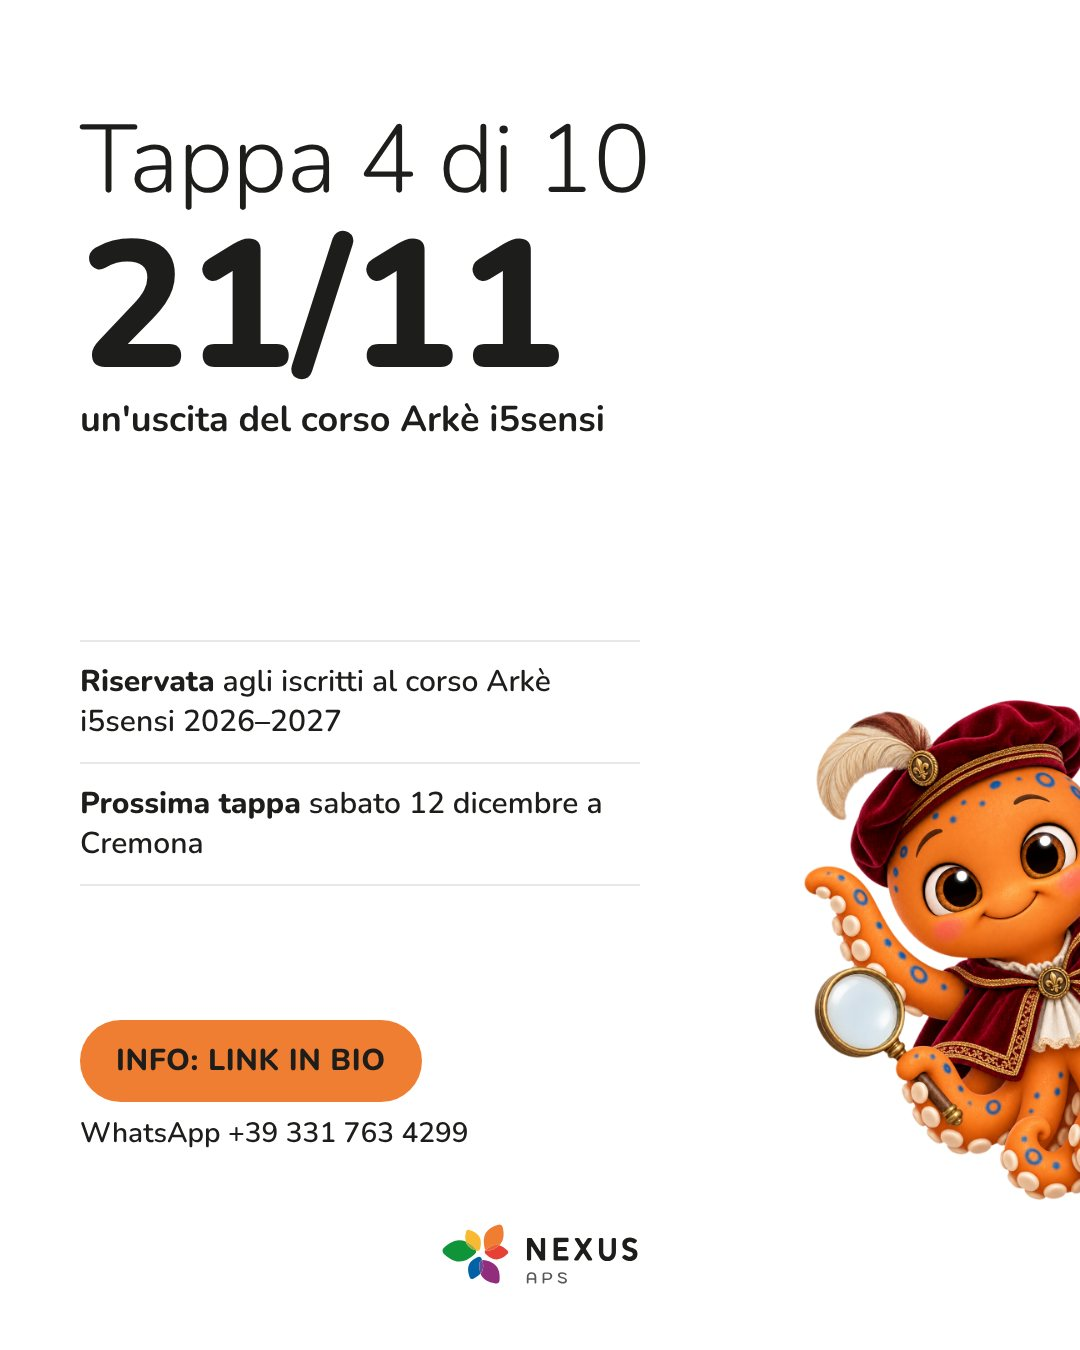
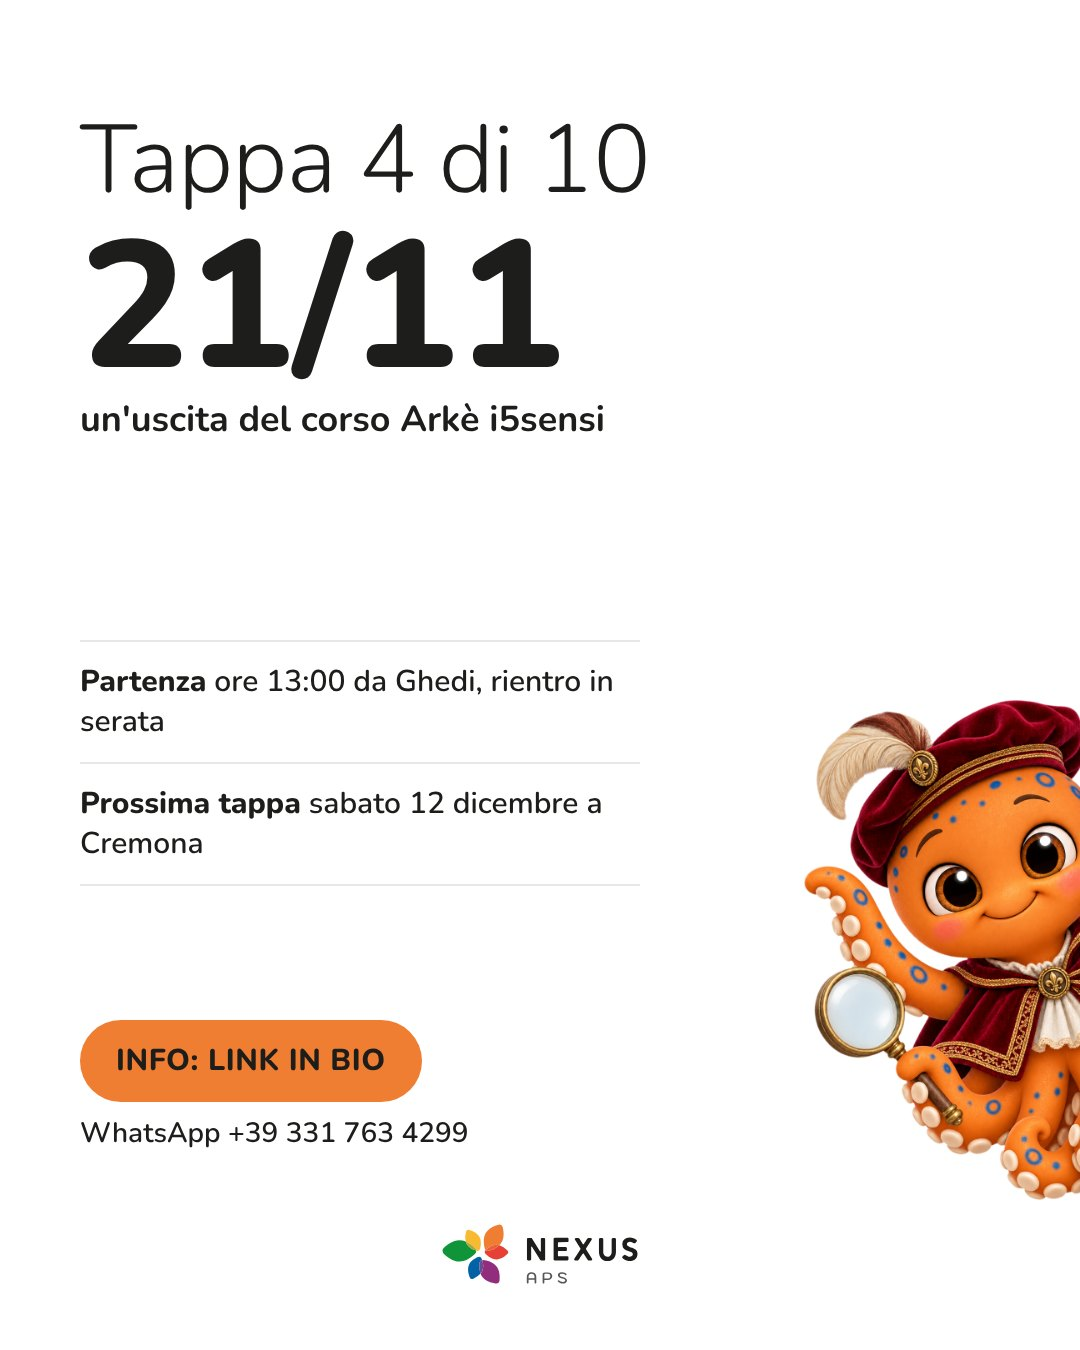
Fontanellato: tolto «riservata agli iscritti al corso» da testi e immagini
Claude-Session: https://claude.ai/code/session_01RE5ewqrLahPzZRPKk1gLcA

Changed region(s): [[0.0611, 0.4978, 0.5806, 0.56]]

diff --git a/index.html b/index.html
@@ -131,7 +131,7 @@ footer{color:var(--muted);font-size:.82rem}
 const SITO='https://nexusghedi.it/';
 const TAG='#NexusAPS #Ghedi';
 const EVENTI=[
-{id:'fontanellato',titolo:'Arkè i5sensi · Fontanellato e il re dei salumi',quando:'Sab 21 novembre',col:'var(--viaggi)',stato:[{t:'Uscita riservata agli iscritti al corso',tipo:'info'}],
+{id:'fontanellato',titolo:'Arkè i5sensi · Fontanellato e il re dei salumi',quando:'Sab 21 novembre',col:'var(--viaggi)',stato:[{t:'Tappa 4 del corso Arkè i5sensi',tipo:'info'}],
  url:SITO+'2026/11/05/arke-i5sensi-fontanellato/',
  msgs:[
  {id:'wa',invio:['2026-11-18'],canale:'wa',label:'Promemoria per gli iscritti al corso',inv:'Da mandare mer 18 o gio 19 novembre',img:'img/wa-fontanellato.jpg',t:
@@ -148,7 +148,7 @@ ${SITO}2026/11/05/arke-i5sensi-fontanellato/`},
 
 Guarda, ascolta, gusta: la Rocca Sanvitale circondata dall'acqua del fossato, con la Camera Ottica e la saletta affrescata dal Parmigianino. Poi nelle storiche cantine di stagionatura, alla scoperta del Culatello di Zibello DOP, con degustazione.
 
-È la quarta delle dieci uscite del corso itinerante Arkè i5sensi 2026–2027, riservate agli iscritti al corso.
+È la quarta delle dieci uscite del corso itinerante Arkè i5sensi 2026–2027.
 
 👉 ${SITO}2026/11/05/arke-i5sensi-fontanellato/`},
  {id:'ig',invio:['2026-11-14'],canale:'ig',label:'Post Instagram',inv:'Una settimana prima',img:'img/post-fontanellato.jpg',imgs:['img/post-fontanellato.jpg','img/post2-fontanellato.jpg','img/post3-fontanellato.jpg'],t:
@@ -156,7 +156,7 @@ Guarda, ascolta, gusta: la Rocca Sanvitale circondata dall'acqua del fossato, co
 
 Guarda, ascolta, gusta: la Rocca Sanvitale con la Camera Ottica e gli affreschi del Parmigianino, poi le cantine di stagionatura del Culatello di Zibello DOP.
 
-Quarta uscita del corso itinerante Arkè i5sensi 2026–2027, riservata agli iscritti. Tutto sul sito: link in bio.
+Quarta uscita del corso itinerante Arkè i5sensi 2026–2027. Tutto sul sito: link in bio.
 
 ${TAG} #Arkèi5sensi #Fontanellato #RoccaSanvitale #Parmigianino #CulatelloDiZibello`},
  {id:'storia',invio:['2026-11-19','2026-11-21'],canale:'storia',label:'Storia Instagram',inv:'Due giorni prima e il giorno stesso',img:'img/storia-fontanellato.jpg',nota:'Aggiungi l\'adesivo «Link» sotto «Scopri l\'uscita», nella zona scura in basso. Il link è qui sotto.',t:`${SITO}2026/11/05/arke-i5sensi-fontanellato/`}]},
